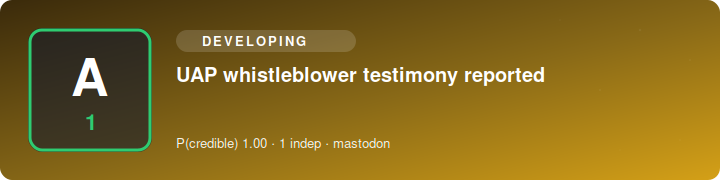
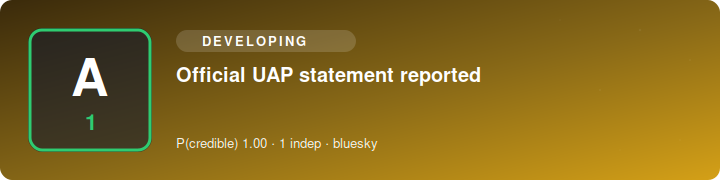
SITREP 2026-07-21 06:20 UTC

Changed region(s): [[0.2444, 0.3611, 0.7639, 0.4722], [0.4583, 0.75, 0.55, 0.8333]]

diff --git a/index.html b/index.html
@@ -1,1 +1,1 @@
-<!doctype html><meta charset=utf-8><title>Science Bob News — SITREP</title><style>body{font:16px/1.5 system-ui,sans-serif;max-width:760px;margin:2rem auto;padding:0 1rem;color:#111}h1{font-size:1.5rem}h2{margin-top:1.6rem;border-bottom:1px solid #ddd;padding-bottom:.2rem}ul{list-style:none;padding:0}li{margin:.9rem 0}.hl{font-weight:600}.meta{color:#555;font-size:.85rem}.src{font-size:.85rem}.vid{font-size:.85rem;margin-top:.15rem}.card{display:block;max-width:100%;height:auto;border-radius:8px;margin:.4rem 0 .5rem}.upd{background:#fde68a;padding:0 .3rem;border-radius:.2rem;font-size:.75rem}.sub{color:#777;font-size:.85rem}footer{color:#777;font-size:.8rem;margin-top:2rem;border-top:1px solid #ddd;padding-top:.6rem}</style><h1>🛸 Science Bob News</h1><div class="sub">UAP / UFO / USO SITREP · updated 2026-07-21 06:10 UTC · automated</div><h2>Corroborated</h2><ul><li><img class="card" src="https://n4hy.github.io/sciencebobnews-site/card_c_1.svg" alt="" width="720" height="180"><div class="hl">UAP report</div><div class="meta">reliability <b>A1</b> · P(credible)=1.0 · 2 independent source(s) · mastodon</div><div class="src"><a href="https://mastodon.online/@KilleansRow/116950757565033042">@KilleansRow@mastodon.online</a> · <a href="https://mastodon.social/@veryexcitingtime/116943386009393198">@veryexcitingtime</a></div></li></ul><h2>Developing / unconfirmed</h2><ul><li><img class="card" src="https://n4hy.github.io/sciencebobnews-site/card_d_1.svg" alt="" width="720" height="180"><div class="hl">UAP report</div><div class="meta">reliability <b>A1</b> · P(credible)=1.0 · 1 independent source(s) · mastodon</div><div class="src"><a href="https://mastodon.social/@inkican/116953294536957948">@inkican</a></div></li><li><img class="card" src="https://n4hy.github.io/sciencebobnews-site/card_d_2.svg" alt="" width="720" height="180"><div class="hl">Official UAP statement reported</div><div class="meta">reliability <b>A1</b> · P(credible)=1.0 · 1 independent source(s) · mastodon</div><div class="src"><a href="https://mastodon.au/@vibewire/116947245997831106">@vibewire@mastodon.au</a></div></li><li><img class="card" src="https://n4hy.github.io/sciencebobnews-site/card_d_3.svg" alt="" width="720" height="180"><div class="hl">UAP whistleblower testimony reported</div><div class="meta">reliability <b>A1</b> · P(credible)=1.0 · 1 independent source(s) · mastodon</div><div class="src"><a href="https://mastodon.au/@vibewire/116954403453413553">@vibewire@mastodon.au</a></div></li><li><img class="card" src="https://n4hy.github.io/sciencebobnews-site/card_d_4.svg" alt="" width="720" height="180"><div class="hl">UAP whistleblower testimony reported</div><div class="meta">reliability <b>A1</b> · P(credible)=1.0 · 1 independent source(s) · mastodon</div><div class="src"><a href="https://mastodon.social/@ScienceBob/116955965730636395">@ScienceBob</a></div></li><li><img class="card" src="https://n4hy.github.io/sciencebobnews-site/card_d_5.svg" alt="" width="720" height="180"><div class="hl">UAP report (Procreate)</div><div class="meta">reliability <b>A1</b> · P(credible)=1.0 · 1 independent source(s) · mastodon</div><div class="src"><a href="https://sunny.garden/@mattievictoria/116943710073567128">@mattievictoria@sunny.garden</a></div></li></ul><footer><b>Powered by Science Bob News.</b> Free to use with credit (see LICENSE). Headlines are factual restatements in the engine's own words; click sources for originals. Single-origin reposts collapse to one source; prosaic candidates flagged where offered.</footer>
+<!doctype html><meta charset=utf-8><title>Science Bob News — SITREP</title><style>body{font:16px/1.5 system-ui,sans-serif;max-width:760px;margin:2rem auto;padding:0 1rem;color:#111}h1{font-size:1.5rem}h2{margin-top:1.6rem;border-bottom:1px solid #ddd;padding-bottom:.2rem}ul{list-style:none;padding:0}li{margin:.9rem 0}.hl{font-weight:600}.meta{color:#555;font-size:.85rem}.src{font-size:.85rem}.vid{font-size:.85rem;margin-top:.15rem}.card{display:block;max-width:100%;height:auto;border-radius:8px;margin:.4rem 0 .5rem}.upd{background:#fde68a;padding:0 .3rem;border-radius:.2rem;font-size:.75rem}.sub{color:#777;font-size:.85rem}footer{color:#777;font-size:.8rem;margin-top:2rem;border-top:1px solid #ddd;padding-top:.6rem}</style><h1>🛸 Science Bob News</h1><div class="sub">UAP / UFO / USO SITREP · updated 2026-07-21 06:20 UTC · automated</div><h2>Corroborated</h2><ul><li><img class="card" src="https://n4hy.github.io/sciencebobnews-site/card_c_1.svg" alt="" width="720" height="180"><div class="hl">UAP report</div><div class="meta">reliability <b>A1</b> · P(credible)=1.0 · 2 independent source(s) · mastodon</div><div class="src"><a href="https://mastodon.online/@KilleansRow/116950757565033042">@KilleansRow@mastodon.online</a> · <a href="https://mastodon.social/@veryexcitingtime/116943386009393198">@veryexcitingtime</a></div></li></ul><h2>Developing / unconfirmed</h2><ul><li><img class="card" src="https://n4hy.github.io/sciencebobnews-site/card_d_1.svg" alt="" width="720" height="180"><div class="hl">UAP report</div><div class="meta">reliability <b>A1</b> · P(credible)=1.0 · 1 independent source(s) · mastodon</div><div class="src"><a href="https://mastodon.social/@inkican/116953294536957948">@inkican</a></div></li><li><img class="card" src="https://n4hy.github.io/sciencebobnews-site/card_d_2.svg" alt="" width="720" height="180"><div class="hl">Official UAP statement reported</div><div class="meta">reliability <b>A1</b> · P(credible)=1.0 · 1 independent source(s) · mastodon</div><div class="src"><a href="https://mastodon.au/@vibewire/116947245997831106">@vibewire@mastodon.au</a></div></li><li><img class="card" src="https://n4hy.github.io/sciencebobnews-site/card_d_3.svg" alt="" width="720" height="180"><div class="hl">UAP whistleblower testimony reported</div><div class="meta">reliability <b>A1</b> · P(credible)=1.0 · 1 independent source(s) · mastodon</div><div class="src"><a href="https://mastodon.au/@vibewire/116954403453413553">@vibewire@mastodon.au</a></div></li><li><img class="card" src="https://n4hy.github.io/sciencebobnews-site/card_d_4.svg" alt="" width="720" height="180"><div class="hl">Official UAP statement reported</div><div class="meta">reliability <b>A1</b> · P(credible)=1.0 · 1 independent source(s) · bluesky</div><div class="src"><a href="https://bsky.app/profile/did:plc:n4qxlew5soqpts52lnszov3d/post/3mr563pvcun2i">@did:plc:n4qxlew5soqpts52lnszov3d</a></div></li><li><img class="card" src="https://n4hy.github.io/sciencebobnews-site/card_d_5.svg" alt="" width="720" height="180"><div class="hl">UAP whistleblower testimony reported</div><div class="meta">reliability <b>A1</b> · P(credible)=1.0 · 1 independent source(s) · mastodon</div><div class="src"><a href="https://mastodon.social/@ScienceBob/116955965730636395">@ScienceBob</a></div></li></ul><footer><b>Powered by Science Bob News.</b> Free to use with credit (see LICENSE). Headlines are factual restatements in the engine's own words; click sources for originals. Single-origin reposts collapse to one source; prosaic candidates flagged where offered.</footer>

diff --git a/sitrep.md b/sitrep.md
@@ -1,5 +1,5 @@
 # 🛸 Science Bob News — UAP / UFO / USO SITREP
-*Updated 2026-07-21 06:10 UTC · auto-generated · sources credited & linked · reliability ratings are automated, not editorial*
+*Updated 2026-07-21 06:20 UTC · auto-generated · sources credited & linked · reliability ratings are automated, not editorial*
 
 ## Corroborated
 
@@ -22,13 +22,13 @@
 3. UAP whistleblower testimony reported — reliability A1 · 1 source(s)  
    [@vibewire@mastodon.au](https://mastodon.au/@vibewire/116954403453413553)
 
-![UAP whistleblower testimony reported](https://n4hy.github.io/sciencebobnews-site/card_d_4.svg)
-4. UAP whistleblower testimony reported — reliability A1 · 1 source(s)  
-   [@ScienceBob](https://mastodon.social/@ScienceBob/116955965730636395)
+![Official UAP statement reported](https://n4hy.github.io/sciencebobnews-site/card_d_4.svg)
+4. Official UAP statement reported — reliability A1 · 1 source(s)  
+   [@did:plc:n4qxlew5soqpts52lnszov3d](https://bsky.app/profile/did:plc:n4qxlew5soqpts52lnszov3d/post/3mr563pvcun2i)
 
-![UAP report (Procreate)](https://n4hy.github.io/sciencebobnews-site/card_d_5.svg)
-5. UAP report (Procreate) — reliability A1 · 1 source(s)  
-   [@mattievictoria@sunny.garden](https://sunny.garden/@mattievictoria/116943710073567128)
+![UAP whistleblower testimony reported](https://n4hy.github.io/sciencebobnews-site/card_d_5.svg)
+5. UAP whistleblower testimony reported — reliability A1 · 1 source(s)  
+   [@ScienceBob](https://mastodon.social/@ScienceBob/116955965730636395)
 
 ---
 *Powered by Science Bob News. Free to use with credit (see LICENSE). Headlines are factual restatements in the engine's own words — click through to the linked sources for originals. Reposts of a single origin are collapsed to one source; candidate prosaic explanations are flagged where offered.*
